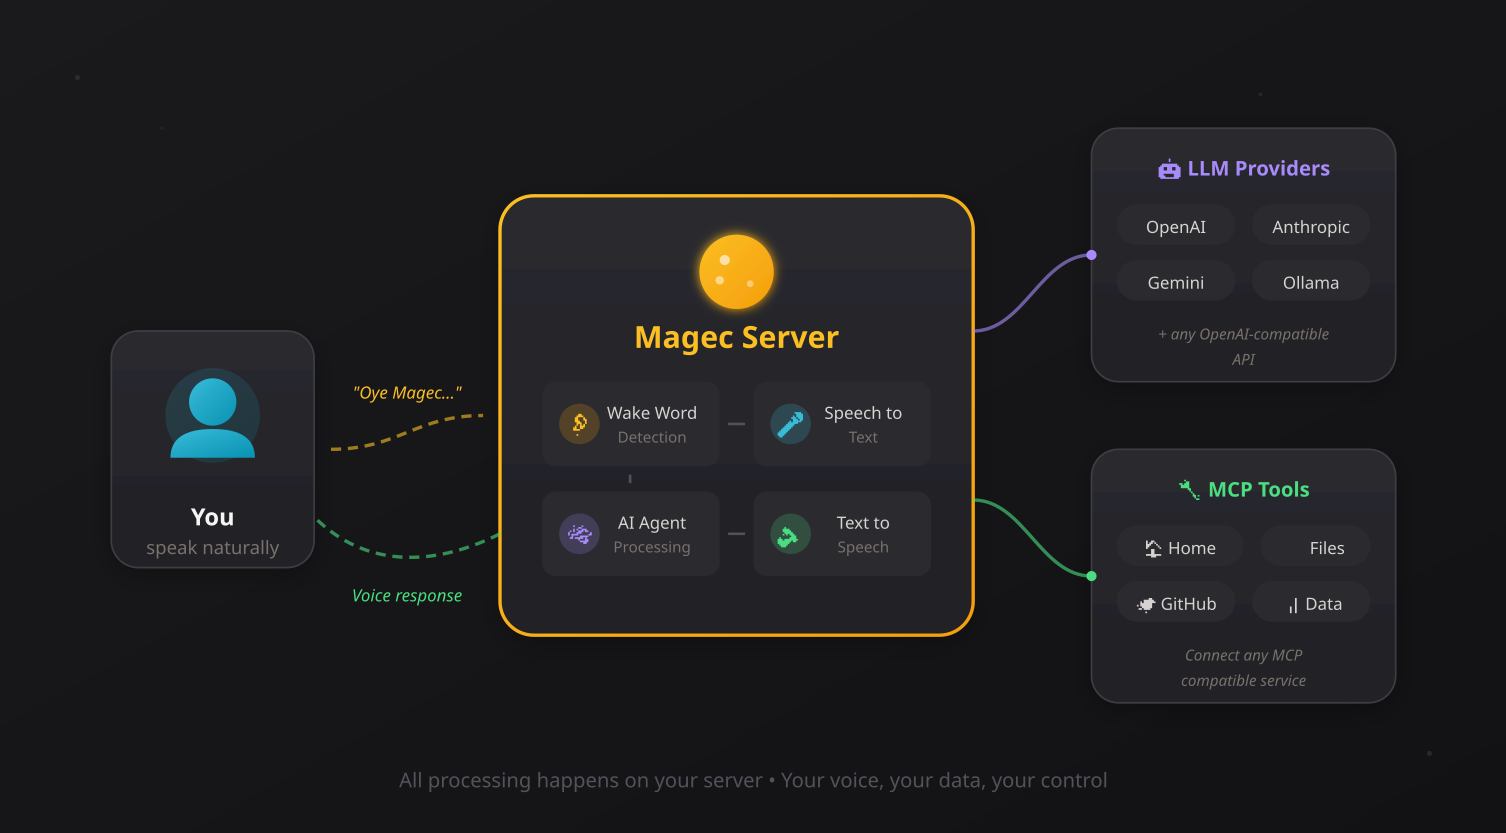
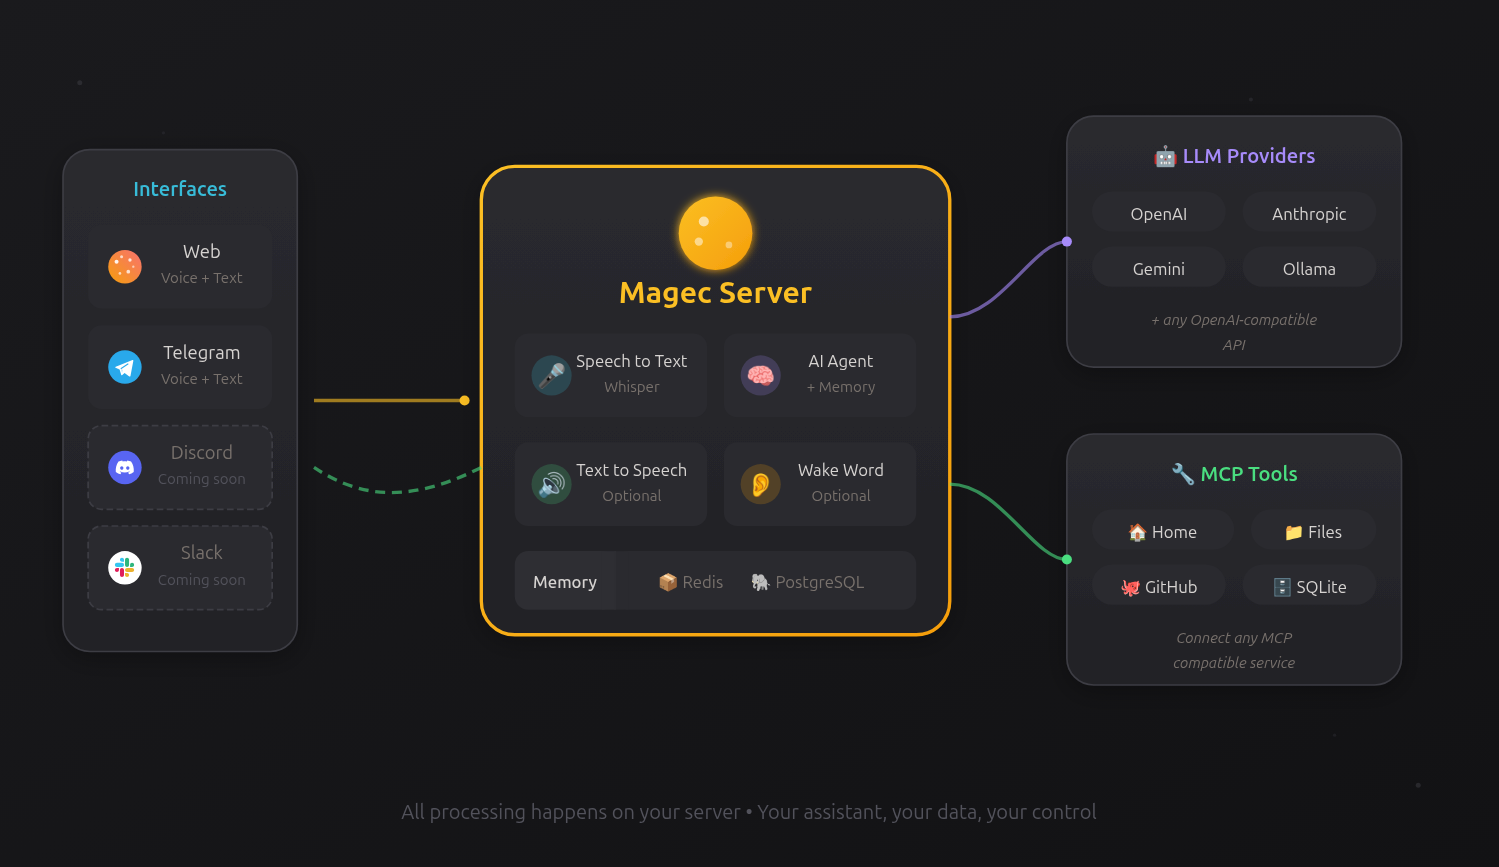
fix: Telegram client not answering

diff --git a/server/clients/telegram/telegram.go b/server/clients/telegram/telegram.go
@@ -95,6 +95,7 @@ func (c *Client) Start(ctx context.Context) error {
 
 	// Handle voice messages (must be registered before general message handler)
 	handler.HandleMessage(func(ctx *th.Context, msg telego.Message) error {
+		c.logger.Info("Voice handler triggered", "chat_id", msg.Chat.ID, "user_id", msg.From.ID)
 		return c.handleVoice(ctx, msg)
 	}, func(_ context.Context, update telego.Update) bool {
 		return update.Message != nil && update.Message.Voice != nil
@@ -102,9 +103,20 @@ func (c *Client) Start(ctx context.Context) error {
 
 	// Handle text messages (exclude voice messages)
 	handler.HandleMessage(func(ctx *th.Context, msg telego.Message) error {
+		c.logger.Info("Text handler triggered", "chat_id", msg.Chat.ID, "user_id", msg.From.ID, "text", msg.Text)
 		return c.handleMessage(ctx, msg)
 	}, func(_ context.Context, update telego.Update) bool {
-		return update.Message != nil && update.Message.Voice == nil && update.Message.Text != ""
+		match := update.Message != nil && update.Message.Voice == nil && update.Message.Text != ""
+		if update.Message != nil {
+			c.logger.Debug("Text predicate check",
+				"chat_id", update.Message.Chat.ID,
+				"user_id", update.Message.From.ID,
+				"text", update.Message.Text,
+				"has_voice", update.Message.Voice != nil,
+				"match", match,
+			)
+		}
+		return match
 	})
 
 	// Start handling (blocks until stopped)
@@ -266,19 +278,24 @@ func (c *Client) isAllowed(userID, chatID int64) bool {
 	}
 
 	// Check user allowlist
-	userAllowed := len(c.cfg.AllowedUsers) == 0 || slices.Contains(c.cfg.AllowedUsers, userID)
+	if len(c.cfg.AllowedUsers) > 0 && slices.Contains(c.cfg.AllowedUsers, userID) {
+		return true
+	}
 
 	// Check chat allowlist
-	chatAllowed := len(c.cfg.AllowedChats) == 0 || slices.Contains(c.cfg.AllowedChats, chatID)
+	if len(c.cfg.AllowedChats) > 0 && slices.Contains(c.cfg.AllowedChats, chatID) {
+		return true
+	}
 
-	return userAllowed && chatAllowed
+	return false
 }
 
 // callAgent sends a message to the ADK agent and returns the response
 func (c *Client) callAgent(userID, chatID int64, message string) (string, error) {
 	// Use chat ID as session ID for conversation continuity
+	// User is always default_user until multiuser support is added
 	sessionID := fmt.Sprintf("telegram_%d", chatID)
-	userIDStr := fmt.Sprintf("telegram_%d", userID)
+	userIDStr := "default_user"
 
 	// Ensure session exists
 	if err := c.ensureSession(userIDStr, sessionID); err != nil {

diff --git a/README.md b/README.md
@@ -1,26 +1,26 @@
 # Magec
 
 <p align="center">
-  <img src="docs/img/banner.png" alt="Magec - Voice assistant from Canary Islands" width="800">
+  <img src="docs/img/banner.png" alt="Magec - Personal AI assistant from Canary Islands" width="800">
 </p>
 
 ## What is Magec?
 
-Magec is a **voice assistant that you control**. Talk to it like you would to Alexa or Siri, but with the power of modern AI models (ChatGPT, Claude, Gemini, or local models).
+Magec is a **personal AI assistant that you control**. Access it via web, voice, or chat platforms like Telegram.
 
 Connect it to your tools via MCP: control your smart home, manage files, query databases, or anything else you can imagine. It runs on your server, remembers your preferences, and gets smarter the more you use it.
 
 <p align="center">
-  <img src="docs/img/architecture.png" alt="Magec Architecture - Voice to LLMs and MCP Tools" width="800">
+  <img src="docs/img/architecture.png" alt="Magec Architecture - Personal AI with LLMs and MCP Tools" width="800">
 </p>
 
 ### How it works
 
 1. **Deploy** — Run Magec on your server or home lab
 2. **Configure** — Point it to your preferred AI model and connect any MCP tools you want (smart home, files, APIs...)
-3. **Talk** — Just say "Oye Magec" and ask for anything. That's it.
+3. **Interact** — Use the web interface, talk by voice, or chat via Telegram. Your choice.
 
-Your voice, your AI, your rules.
+Your assistant, your AI, your rules.
 
 # Please ⭐ star this repo if you find it helpful
 
@@ -43,33 +43,28 @@ The name honors this Canarian heritage while reflecting the assistant's purpose:
 
 ## Features
 
-### Voice & Speech
+### Core
 
-- **Wake word detection** — Server-side OpenWakeWord models for hands-free activation ("Oye Magec", "Magec")
-- **Speech transcription** — Server-side transcription via OpenAI-compatible Whisper APIs (e.g. [Parakeet](https://github.com/achetronic/parakeet))
-- **Text-to-speech** — Natural voice responses via OpenAI-compatible TTS APIs (e.g. [openai-edge-tts](https://github.com/travisvn/openai-edge-tts))
-
-### AI & Intelligence
-
-- **Multi-provider LLM** — Supports OpenAI, Anthropic (Claude), Google Gemini, and local models via Ollama
-- **Configurable backends** — Define multiple AI backends and switch between them easily
-
-### Memory & Context
-
+- **Multi-provider LLM** — OpenAI, Anthropic (Claude), Google Gemini, and local models via Ollama
 - **Session memory** — Conversation history stored in Redis, survives restarts
 - **Long-term memory** — Remembers things about you across sessions using PostgreSQL
+- **MCP tools** — Connect external tools via Model Context Protocol (Home Assistant, filesystem, GitHub, databases...)
+- **YAML configuration** — Single config file for all settings
 
-### Extensibility
+### Interfaces
 
-- **MCP toolsets** — Connect external tools via Model Context Protocol (filesystem, GitHub, Home Assistant, etc.)
-- **YAML configuration** — Single config file for all settings: backends, memory, MCP servers
+- **Web** — Voice and text chat with audio visualizer, PWA support
+- **Telegram** — Text and voice messages from your phone
+- *(Future: Discord, Slack, WhatsApp, CLI...)*
 
-### Interface
+### Voice Capabilities
 
-- **Web GUI** — Lightweight client with all heavy processing server-side
-- **Telegram bot** — Chat via Telegram with text or voice messages
-- **Magec visualizer** — Mystical audio visualization that reacts to voice
-- **PWA support** — Install as standalone app on mobile devices
+- **Wake word detection** — Server-side OpenWakeWord models ("Oye Magec", "Magec")
+- **Speech-to-text** — OpenAI-compatible Whisper APIs (e.g. [Parakeet](https://github.com/achetronic/parakeet))
+- **Text-to-speech** — OpenAI-compatible TTS APIs (e.g. [openai-edge-tts](https://github.com/travisvn/openai-edge-tts))
+
+### Additional
+
 - **Responsive design** — Works on desktop and mobile browsers
 - **i18n** — Supports Spanish (default) and English
 
@@ -89,7 +84,7 @@ nano config.yaml
 docker-compose up -d
 ```
 
-Open http://localhost:8080 and say "Oye Magec"!
+Open http://localhost:8080 and start chatting!
 
 > **Note**: Edit `config.yaml` to add your OpenAI/Anthropic API key, or configure Ollama for fully local operation.
 
